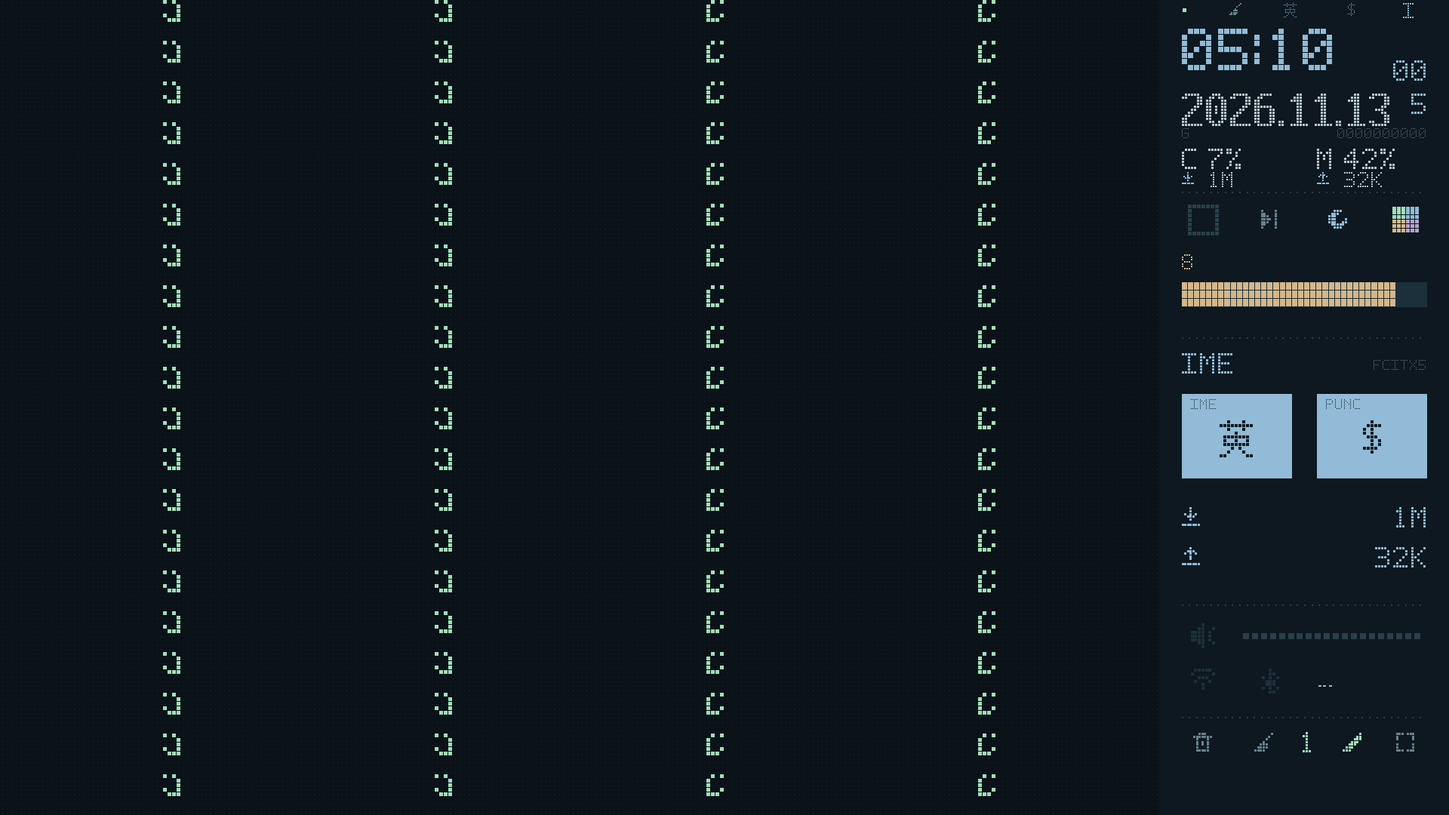
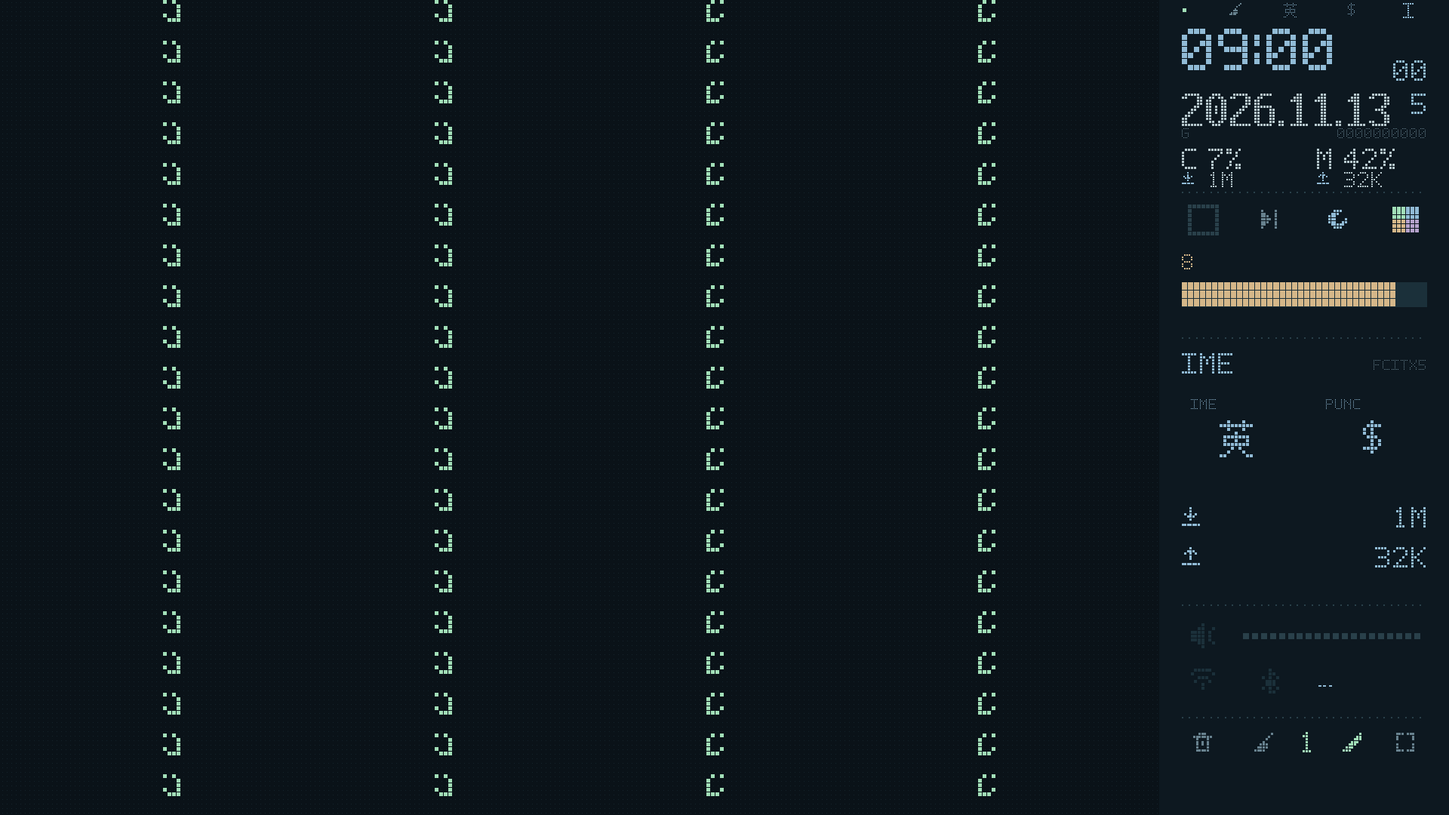
Recognize Rime currency punctuation labels, initialize tray menus, and remove input status tiles

Changed region(s): [[0.8125, 0.4583, 1.0, 0.6111], [0.8438, 0.0306, 0.9062, 0.0917]]

diff --git a/native/plasma-wallpaper/contents/ui/main.qml b/native/plasma-wallpaper/contents/ui/main.qml
@@ -5,7 +5,7 @@ import org.kde.plasma.core as PlasmaCore
 
 WallpaperItem {
     id: root
-    readonly property string frontendVersion: "0.3.4"
+    readonly property string frontendVersion: "0.3.5"
     // Source resolution and the Item's logical display size are separate contracts.
     readonly property real ratio: Screen.devicePixelRatio || 1
     readonly property real renderScale: Math.min(Math.max(ratio, 640 / Math.max(1,width), 360 / Math.max(1,height)),

diff --git a/native/conway_desktop/ime.py b/native/conway_desktop/ime.py
@@ -9,8 +9,8 @@ from PySide6.QtCore import QObject,QTimer
 from .logging_setup import LOGGER
 
 SERVICE='org.fcitx.Fcitx5';CONTROLLER='org.fcitx.Fcitx.Controller1'
-CHINESE={'。，','，。','中文标点','中文標點','中式标点','中式標點'}
-ENGLISH={'．，','，．','.,',',.','英文标点','英文標點','西文标点','西文標點'}
+CHINESE={'。，','，。','¥','￥','中文标点','中文標點','中式标点','中式標點','Chinese punctuation'}
+ENGLISH={'．，','，．','.,',',.','$','＄','英文标点','英文標點','西文标点','西文標點','English punctuation'}
 
 def unwrap(value):
     if isinstance(value,dict):
@@ -34,18 +34,24 @@ def menu_items(layout):
             yield layout[0],layout[1]
         for item in layout:yield from menu_items(item)
 
-def punctuation_action(layout):
+def punctuation_candidates(layout):
     candidates=[]
     for identifier,props in menu_items(layout):
         if props.get('enabled') is False or props.get('visible') is False:continue
         icon=props.get('icon-name','')
         if icon in ('fcitx-punc-active','fcitx-punc-inactive'):
             candidates.append((identifier,icon=='fcitx-punc-active'));continue
-        label=props.get('label','').replace('&','').strip()
+        label=props.get('label','')
+        if not isinstance(label,str):continue
+        label=label.replace('&','').strip()
         parts=[part.strip() for part in label.split('→')]
         if len(parts)==2 and ((parts[0] in CHINESE and parts[1] in ENGLISH) or (parts[0] in ENGLISH and parts[1] in CHINESE)):
             candidates.append((identifier,parts[0] in CHINESE))
+    return candidates
+
+def punctuation_action(layout):
     # Never guess when several actions match, or when a custom schema hides/renames it.
+    candidates=punctuation_candidates(layout)
     return candidates[0] if len(candidates)==1 else None
 
 def args(service,path,interface,method,signature='',*values):
@@ -53,7 +59,7 @@ def args(service,path,interface,method,signature='',*values):
 
 class Fcitx(QObject):
     def __init__(self,system):
-        super().__init__(system);self.system=system;self.polling=False;self.after=None;self.engine=None;self.menu=None;self.action=None
+        super().__init__(system);self.system=system;self.polling=False;self.after=None;self.engine=None;self.menu=None;self.action=None;self.diagnostic={'stage':'not-read'}
         self.timer=QTimer(self);self.timer.setInterval(1000);self.timer.timeout.connect(self.refresh)
         if system.enabled:self.timer.start();QTimer.singleShot(0,self.refresh)
     def call(self,argv,callback,key='ime-read'):
@@ -74,7 +80,8 @@ class Fcitx(QObject):
             callback=self.after;self.after=None
             if callback:callback()
         def fail():
-            self.system.state.update(ime=None,punctuation=None);self.system.errors['ime']='无法连接 Fcitx5；需要运行 Fcitx5 并提供会话 D-Bus 与 busctl'
+            self.action=None;self.menu=None;self.punctuation_report('service-unavailable')
+            self.system.state.update(ime=None,punctuation=None);self.system.errors['ime']=self.system.errors['punctuation']='无法连接 Fcitx5；需要运行 Fcitx5 并提供会话 D-Bus 与 busctl'
             done()
         def engine_result(active):
             def result(ok,engine):
@@ -95,26 +102,51 @@ class Fcitx(QObject):
             if not ok or type(value) is not int or value not in (0,1,2):fail();return
             self.call(args(SERVICE,'/controller',CONTROLLER,'CurrentInputMethod'),engine_result(value))
         self.call(args(SERVICE,'/controller',CONTROLLER,'State'),state_result)
+    def punctuation_report(self,stage,**fields):
+        # Only counts and recognized states: no full menus, schema names or text.
+        report={'stage':stage,**fields}
+        if report!=self.diagnostic:LOGGER.info('Punctuation availability %s',report)
+        self.diagnostic=report
     def read_punctuation(self,done):
         self.action=None;self.system.state['punctuation']=None
-        self.system.errors['punctuation']='未找到可识别的标点开关；需要 Fcitx5 托盘菜单和方案的标点选项'
+        def unavailable(stage,message,**fields):
+            self.system.errors['punctuation']=message;self.punctuation_report(stage,**fields);done()
         if self.menu:
             service,path=self.menu
             def result(ok,layout):
-                if not ok:self.menu=None
+                if not ok:
+                    self.menu=None;unavailable('layout-unavailable','无法读取 Fcitx5 标点菜单；将重新发现托盘服务。');return
+                candidates=punctuation_candidates(layout);items=sum(1 for _ in menu_items(layout))
+                if len(candidates)==1:
+                    self.action=candidates[0];self.system.state['punctuation']=self.action[1]
+                    self.system.errors.pop('punctuation',None)
+                    self.punctuation_report('ready',menuItems=items,candidates=1,chinese=self.action[1]);done()
                 else:
-                    self.action=punctuation_action(layout)
-                    if self.action:
-                        self.system.state['punctuation']=self.action[1];self.system.errors.pop('punctuation',None)
-                done()
-            self.call(args(service,path,'com.canonical.dbusmenu','GetLayout','iias',0,3,0),result);return
+                    stage='ambiguous-actions' if candidates else 'no-recognized-action'
+                    message='检测到多个标点开关，无法安全判断应操作哪一个。' if candidates else '未找到可识别的标点开关。支持 Rime 的 ¥／$、￥／$、。，／．，标签；请先在可输入文字的窗口中选中 Rime 中文模式。'
+                    unavailable(stage,message,menuItems=items,candidates=len(candidates))
+            def shown(ok,_):
+                if not ok:
+                    self.menu=None;unavailable('menu-initialization-failed','无法初始化 Fcitx5 托盘菜单；将重新发现托盘服务。');return
+                self.call(args(service,path,'com.canonical.dbusmenu','GetLayout','iias',0,3,0),result)
+            # AboutToShow binds Fcitx's menu to its most recent input context.
+            # It does not display a popup or inject a keyboard event.
+            self.call(args(service,path,'com.canonical.dbusmenu','AboutToShow','i',0),shown);return
         def watcher(ok,items):
-            candidates=[v for v in all_strings(items) if re.fullmatch(r'(?::[0-9]+\.[0-9]+|[A-Za-z_][A-Za-z0-9_-]*(?:\.[A-Za-z_][A-Za-z0-9_-]*)+)/[A-Za-z0-9_/]+',v)][:64] if ok else []
+            if not ok:
+                unavailable('watcher-unavailable','无法读取系统托盘服务；需要 Fcitx5 托盘菜单和会话 D-Bus。');return
+            candidates=[v for v in all_strings(items) if re.fullmatch(r'(?::[0-9]+\.[0-9]+|[A-Za-z_][A-Za-z0-9_-]*(?:\.[A-Za-z_][A-Za-z0-9_-]*)+)/[A-Za-z0-9_/]+',v)][:64]
             def discover():
-                if not candidates:done();return
+                if not candidates:
+                    unavailable('fcitx-tray-not-found','未发现 Fcitx5 托盘菜单；请确认 Fcitx5 的状态通知器／托盘功能正在运行。');return
                 service,tail=candidates.pop(0).split('/',1);path='/'+tail
+                def menu_path(ok,value):
+                    if not ok or not isinstance(value,str) or not re.fullmatch(r'/(?:[A-Za-z0-9_]+/)*[A-Za-z0-9_]+',value):
+                        unavailable('menu-path-unavailable','Fcitx5 托盘未提供有效的菜单路径。');return
+                    self.menu=(service,value);self.read_punctuation(done)
                 def identify(ok,value):
-                    if ok and value=='Fcitx':self.menu=(service,'/MenuBar');self.read_punctuation(done)
+                    if ok and value=='Fcitx':
+                        self.call(args(service,path,'org.freedesktop.DBus.Properties','Get','ss','org.kde.StatusNotifierItem','Menu'),menu_path)
                     else:discover()
                 self.call(args(service,path,'org.freedesktop.DBus.Properties','Get','ss','org.kde.StatusNotifierItem','Id'),identify)
             discover()
@@ -128,7 +160,7 @@ class Fcitx(QObject):
             self.system.changed.emit()
         QTimer.singleShot(200,lambda:self.refresh(after=verify))
     def control_failure(self,key):
-        self.system.busy.discard(key);self.system.notice.emit('Fcitx5 操作失败，请确认输入法服务、托盘和当前输入方案。');self.system.changed.emit()
+        self.system.busy.discard(key);self.system.notice.emit(self.system.errors.get(key) or 'Fcitx5 操作失败，请确认输入法服务、托盘和当前输入方案。');self.system.changed.emit()
     def toggle_mode(self):
         key='ime'
         if self.system.busy.intersection(('ime','punctuation')) or not self.system.enabled:return
@@ -159,22 +191,17 @@ class Fcitx(QObject):
         if self.system.busy.intersection(('ime','punctuation')) or not self.system.enabled:return
         self.system.busy.add(key);self.system.changed.emit()
         def perform():
-            if not self.menu:self.control_failure(key);return
-            service,path=self.menu
-            def shown(ok,_):
-                if not ok:self.control_failure(key);return
-                def refreshed():
-                    if not self.action:self.control_failure(key);return
-                    identifier,current=self.action
-                    LOGGER.info('Punctuation requested chinese=%s',not current)
-                    def clicked(ok,_):
-                        if not ok:self.control_failure(key);return
-                        def close_menu():
-                            self.call(args(service,path,'com.canonical.dbusmenu','Event','isvu',0,'closed','i',0,0),
-                                      lambda ok,_:self.finish_control(key,not current),'ime-control')
-                        QTimer.singleShot(100,close_menu)
-                    self.call(args(service,path,'com.canonical.dbusmenu','Event','isvu',identifier,'clicked','i',0,0),clicked,'ime-control')
-                self.read_punctuation(refreshed)
-            self.call(args(service,path,'com.canonical.dbusmenu','AboutToShow','i',0),shown,'ime-control')
+            def refreshed():
+                if not self.action or not self.menu:self.control_failure(key);return
+                service,path=self.menu;identifier,current=self.action
+                LOGGER.info('Punctuation requested chinese=%s',not current)
+                def clicked(ok,_):
+                    if not ok:self.control_failure(key);return
+                    def close_menu():
+                        self.call(args(service,path,'com.canonical.dbusmenu','Event','isvu',0,'closed','i',0,0),
+                                  lambda ok,_:self.finish_control(key,not current),'ime-control')
+                    QTimer.singleShot(100,close_menu)
+                self.call(args(service,path,'com.canonical.dbusmenu','Event','isvu',identifier,'clicked','i',0,0),clicked,'ime-control')
+            self.read_punctuation(refreshed)
         self.refresh(after=perform)
     def stop(self):self.timer.stop();self.after=None

diff --git a/native/tests/test_ime.py b/native/tests/test_ime.py
@@ -15,10 +15,10 @@ from conway_desktop.view import View
 APP=QApplication.instance() or QApplication([])
 
 class FakeBus:
-    def __init__(self):self.ascii=False;self.punctuation=True;self.engine='rime';self.calls=[];self.failed=False
+    def __init__(self):self.ascii=False;self.punctuation=True;self.engine='rime';self.calls=[];self.failed=False;self.labels=('。，','．，');self.prepared=False;self.menu_path='/MenuBar';self.fail_method=None;self.has_tray=True
     def run(self,key,argv,callback,**kwargs):
         self.calls.append(argv);method=argv[8];signature=argv[9] if len(argv)>9 else '';values=argv[10:]
-        if self.failed:callback(False,'no session bus');return True
+        if self.failed or method==self.fail_method:callback(False,'unavailable');return True
         value=None;kind=''
         if method=='State':kind='i';value=1 if self.engine.startswith('keyboard-') else 2
         elif method=='CurrentInputMethod':kind='s';value=self.engine
@@ -27,13 +27,18 @@ class FakeBus:
         elif method=='Activate':self.engine='rime'
         elif method=='Deactivate':self.engine='keyboard-us'
         elif method=='Get':
-            if values[-1]=='RegisteredStatusNotifierItems':kind='v';value={'type':'as','data':[':1.55/StatusNotifierItem']}
+            if values[-1]=='RegisteredStatusNotifierItems':kind='v';value={'type':'as','data':[':1.55/StatusNotifierItem'] if self.has_tray else []}
+            elif values[-1]=='Menu':kind='v';value={'type':'o','data':self.menu_path}
             else:kind='v';value={'type':'s','data':'Fcitx'}
         elif method=='GetLayout':
-            label='。， → ．，' if self.punctuation else '．， → 。，'
+            assert self.prepared,'GetLayout requires AboutToShow to initialize the input context'
+            assert argv[6]==self.menu_path,'Use the advertised menu object path'
+            a,b=self.labels if self.punctuation else tuple(reversed(self.labels));label=a+' → '+b
             kind='u(ia{sv}av)';data=[42,[0,{},[{'type':'(ia{sv}av)','data':[77,{'label':{'type':'s','data':label}},[]]}]]]
             callback(True,json.dumps({'type':kind,'data':data}));return True
-        elif method=='AboutToShow':kind='b';value=True
+        elif method=='AboutToShow':
+            assert argv[6]==self.menu_path
+            self.prepared=True;kind='b';value=True
         elif method=='Event' and values[1]=='clicked':self.punctuation=not self.punctuation
         callback(True,json.dumps({'type':kind,'data':[value]}) if kind else '');return True
     def stop(self):pass
@@ -60,6 +65,38 @@ class InputMethods(unittest.TestCase):
         self.assertTrue(any(argv[-3:]==['SetAsciiMode','b','true'] for argv in self.bus.calls))
         event=next(argv for argv in self.bus.calls if argv[8]=='Event')
         self.assertEqual(event[9:],['isvu','77','clicked','i','0','0'])
+    def test_currency_labels_read_toggle_and_confirm_in_both_directions(self):
+        for chinese,english in (('¥','$'),('￥','$'),('￥','＄'),('。，','．，')):
+            self.bus.labels=(chinese,english);self.bus.punctuation=True;self.bus.prepared=False
+            self.system.ime.menu=None;self.system.ime.refresh()
+            self.assertIs(self.system.state['punctuation'],True)
+            with patch('conway_desktop.ime.QTimer.singleShot',side_effect=lambda _,callback:callback()):
+                self.system.ime.toggle_punctuation();self.assertIs(self.system.state['punctuation'],False)
+                self.system.ime.toggle_punctuation();self.assertIs(self.system.state['punctuation'],True)
+            self.assertEqual(self.system.ime.diagnostic['stage'],'ready');self.assertFalse(self.messages)
+    def test_reported_menu_path_and_initialization_are_required(self):
+        self.bus.menu_path='/Custom/FcitxMenu';self.system.ime.refresh()
+        self.assertEqual(self.system.ime.menu,(':1.55','/Custom/FcitxMenu'))
+        methods=[c[8] for c in self.bus.calls];self.assertLess(methods.index('AboutToShow'),methods.index('GetLayout'))
+        self.assertIs(self.system.state['punctuation'],True)
+    def test_unavailable_punctuation_keeps_language_and_explains_failure(self):
+        self.bus.has_tray=False;self.system.ime.refresh()
+        self.assertIs(self.system.state['ime'],True);self.assertIsNone(self.system.state['punctuation'])
+        self.assertEqual(self.system.ime.diagnostic['stage'],'fcitx-tray-not-found')
+        self.bus.has_tray=True;self.bus.fail_method='GetLayout';self.system.ime.refresh()
+        self.assertEqual(self.system.ime.diagnostic['stage'],'layout-unavailable');self.assertIsNone(self.system.ime.menu)
+        self.bus.fail_method=None;self.system.ime.refresh()
+        self.assertIs(self.system.state['punctuation'],True);self.assertNotIn('punctuation',self.system.errors)
+    def test_labels_and_ambiguity_do_not_confuse_other_rime_switches(self):
+        for label,value in (('¥ → $',True),('$ → ¥',False),('￥ → ＄',True),('＄ → ￥',False)):
+            self.assertEqual(punctuation_action([0,{},[[5,{'label':label},[]]]]),(5,value))
+        for label in ('全角 → 半角','简 → 繁','￥','中文模式 → 英文模式',None):
+            self.assertIsNone(punctuation_action([0,{},[[5,{'label':label},[]]]]))
+        self.assertIsNone(punctuation_action([0,{},[[5,{'label':'¥ → $'},[]],[6,{'label':'。， → ．，'},[]]]]))
+        self.assertIsNone(punctuation_action([0,{},[[5,{'label':'¥ → $','enabled':False},[]]]]))
+        self.bus.labels=('CustomPrivateMode','UnrecognizedPrivateState');self.system.ime.refresh()
+        self.assertEqual(self.system.ime.diagnostic['stage'],'no-recognized-action')
+        self.assertNotIn('CustomPrivateMode',str(self.system.ime.diagnostic))
     def test_keyboard_to_rime_activates_then_exits_rime_ascii(self):
         self.bus.engine='keyboard-us';self.bus.ascii=True
         with patch('conway_desktop.ime.QTimer.singleShot',side_effect=lambda _,callback:callback()):self.system.ime.toggle_mode()
@@ -90,6 +127,27 @@ class InputMethods(unittest.TestCase):
                         self.assertIs(self.system.state['ime'],not previous)
                         previous=self.system.state['punctuation'];regions['status-punctuation'][1]()
                         self.assertIs(self.system.state['punctuation'],not previous)
+        finally:view.timer.stop();view.deleteLater();APP.processEvents()
+    def test_enlarged_input_states_have_no_tile_backgrounds(self):
+        import numpy as np
+        from PySide6.QtGui import QColor
+        from conway_desktop.view import THEMES
+        view=View(Model(),None,self.system);view.deck='information'
+        try:
+            for theme in ('night','day'):
+                view.m.palette=theme;palette=THEMES[theme]
+                for value in (True,False,None):
+                    self.system.state.update(ime=value,punctuation=value)
+                    for w,h in ((1920,1080),(2560,1440)):
+                        image=view.render_image(w,h)
+                        pixels=np.frombuffer(image.bits(),np.uint32).reshape(image.height(),image.bytesPerLine()//4)
+                        for name in ('ime','punctuation'):
+                            box=next(r for r,_,n in view.regions if n==name)
+                            self.assertEqual(image.pixelColor(box.x()+2,box.y()+2),QColor(palette['panel']))
+                            body=pixels[box.y():box.y()+box.height(),box.x():box.x()+box.width()]
+                            ink=QColor(palette['muted'] if value is None else palette['life'] if value else palette['clock']).rgba()
+                            self.assertGreater(np.count_nonzero(body==ink),20)
+                            self.assertGreater(np.count_nonzero(body==QColor(palette['panel']).rgba()),body.size*.75)
         finally:view.timer.stop();view.deleteLater();APP.processEvents()
     def test_information_page_layout_and_no_canvas_close(self):
         view=View(Model(),None,self.system);view.deck='information'

diff --git a/native/tests/test_wallpaper.py b/native/tests/test_wallpaper.py
@@ -282,7 +282,11 @@ class WallpaperBridge(unittest.TestCase):
         status,data=self.request('/status');self.assertEqual(status,200);self.assertTrue(json.loads(data)['reloadRequired'])
         path='/status?frontend='+VERSION+'&logicalW=1970&logicalH=1107&screenDpr=2&sourceW=2560&sourceH=1440&imageW=1970&imageH=1107'
         status,data=self.request(path);self.assertEqual(status,200);self.assertFalse(json.loads(data)['reloadRequired'])
+        self.system.state.update(ime=True,punctuation=False)
+        self.system.ime.punctuation_report('ready',menuItems=8,candidates=1,chinese=False)
         status,data=self.request('/display-info');info=json.loads(data)
+        self.assertEqual(info['inputMethod'],{'chinese':True,'chinesePunctuation':False,
+                         'punctuationDiagnostic':{'stage':'ready','menuItems':8,'candidates':1,'chinese':False}})
         self.assertEqual(info['backendVersion'],VERSION);self.assertEqual(info['clients'][-1]['logicalW'],1970)
         self.assertEqual(info['clients'][-1]['sourceH'],1440);self.assertNotIn(self.server.token,data.decode())
         self.assertEqual(self.request('/status?frontend='+VERSION+'&logicalW=nan')[0],400)

diff --git a/native/conway_desktop/view.py b/native/conway_desktop/view.py
@@ -305,12 +305,11 @@ class View(QWidget):
                 value=state[key];busy=bool(self.system.busy.intersection(('ime','punctuation')))
                 enabled=value is not None
                 region(key,x,437,122,94,lambda action=action:action() if not self.system.busy.intersection(('ime','punctuation')) else None,enabled)
-                p.fillRect(rect(x,437,122,94),t['life'] if value else t['clock'] if value is False else t['off'])
-                color=t['panel'] if value is not None else t['muted']
+                color=t['muted'] if value is None else t['life'] if value else t['clock']
                 text(x+10,443,label,1.8,color)
                 symbols=('中' if value else '英') if key=='ime' else ('￥' if value else '$')
                 text(x+(42 if key=='ime' else 47),466,symbols if value is not None else '?',4,color)
-                if busy:p.fillRect(rect(x,437,122,5),t['speed'])
+                if busy:dot(x+108,443,4,t['speed'])
             for y,name,key in ((563,'down','download'),(607,'up','upload')):
                 icon(24,y,name,t['clock'],3)
                 text(296,y,rate_label(state.get(key)),3,t['clock'],True)

diff --git a/native/conway_desktop/wallpaper.py b/native/conway_desktop/wallpaper.py
@@ -178,6 +178,8 @@ class WallpaperServer(QObject):
         from PySide6.QtGui import QGuiApplication
         return {'backendVersion':VERSION,'clients':list(self.display_clients.values()),
                 'inputCounts':self.input_counts,'lastInput':self.last_input,
+                'inputMethod':{'chinese':self.view.system.state['ime'],'chinesePunctuation':self.view.system.state['punctuation'],
+                               'punctuationDiagnostic':self.view.system.ime.diagnostic},
                 'activityPreview':{'image':self.preview.url,'error':self.preview.error} if self.preview else None,
                 'nativeWindowLogicalSize':[self.view.width(),self.view.height()],
                 'nativeWindowDpr':self.view.devicePixelRatioF(),

diff --git a/native/README.md b/native/README.md
@@ -2,7 +2,7 @@
 
 先阅读 [方案与能力边界](docs/DESIGN.md)，再阅读 [操作手册](docs/MANUAL.md)。本目录是独立原生 Qt 应用，不加载 HTML 或 WebEngine；网页版本仍保留。
 
-当前 0.3.4 面向 1920×1080 和 2560×1440 物理像素，提供普通窗口、全屏，以及 **Plasma 6 原生壁纸插件实验模式**。真实 Kubuntu 桌面叠放、图标输入和缩放仍需实机验证。
+当前 0.3.5 面向 1920×1080 和 2560×1440 物理像素，提供普通窗口、全屏，以及 **Plasma 6 原生壁纸插件实验模式**。真实 Kubuntu 桌面叠放、图标输入和缩放仍需实机验证。
 
 ## 推荐：一键下载／更新
 
@@ -67,9 +67,9 @@ bash /tmp/conway-update.sh
 
 CPU／内存显示如 `7%`、`42%`，不补零。下载／上传按物理联网网卡的字节计数差计算，每两秒采样；以 1024 进制显示整数 `B`、`K`、`M`（均为每秒字节数，舍去小数）。不统计 VPN 虚拟接口，避免重复计数；多个物理接口相加。初次采样、网卡切换、计数回退及休眠恢复显示 `---`，随后恢复。
 
-右侧最顶行常驻 **中／英** 与 **￥／$** 状态，分别表示中文／英文输入及中文／英文标点；均可点击切换，未知显示 `?`。右上 P／I 切换图案与信息页，信息页保留对应的大按钮。货币符号仅是标点状态的图形标识，不代表切换货币或全角／半角。
+右侧最顶行常驻 **中／英** 与 **￥／$** 状态，分别表示中文／英文输入及中文／英文标点；均可点击切换，未知显示 `?`。右上 P／I 切换图案与信息页，信息页保留对应的大号无底色按钮，用像素字形及颜色显示。货币符号仅是标点状态的图形标识，不代表切换货币或全角／半角。
 
-输入法针对 Fcitx5，需要 `busctl` 与会话 D-Bus。支持 Rime 内部 ASCII 模式、Fcitx 拼音／双拼及英文键盘切换；不以“引擎仍是 Rime”就断言正在输入中文。标点读取 Fcitx 托盘的真实标点动作，支持标准 punctuation 图标及可识别的 Rime `。， ↔ ．，` 等标签。方案隐藏该选项、自定义标签无法判断或托盘未运行时，显示 `?` 并禁用，**不会把全角／半角冒充中／英文标点**。不模拟快捷键，不改 Rime 配置，不读取预编辑文本。操作后读回确认。
+输入法针对 Fcitx5，需要 `busctl` 与会话 D-Bus。支持 Rime 内部 ASCII 模式、Fcitx 拼音／双拼及英文键盘切换；不以“引擎仍是 Rime”就断言正在输入中文。标点读取 Fcitx 托盘的真实标点动作，支持标准 punctuation 图标及 Rime `。， → ．，`、`¥ → $`、`￥ → $` 与它们的反向标签。方案隐藏该选项、自定义标签无法判断或托盘未运行时，显示 `?` 并禁用，**不会把全角／半角冒充中／英文标点**。不模拟快捷键，不改 Rime 配置，不读取预编辑文本。操作后读回确认。
 
 状态属于 Fcitx 最近的输入上下文，是否按应用记忆遵循你的 Fcitx／Rime 设置；不是保证全系统所有应用同步的开关。Wayland 焦点行为仍需实机验证。自定义方案可在 Rime 的 switches 中公开 ascii_punct 并使用常规标点状态标签，部署后重新检查；不要为此覆盖现有整份配置。
 
@@ -173,3 +173,12 @@ Plasma 6.6.6 活动切换器读取壁纸配置的 `General/Image`，不会自动
 Wi-Fi 名称的像素字号提高，音量条移至与喇叭图标相同的水平中心线。最顶行增加可点击的常驻“中／英”和“￥／$”，两个页面均可查看和切换；信息页的大按钮也统一使用货币符号显示标点状态。已有 Fcitx5／Rime 识别与未知状态处理不变。
 
 本轮 79 项测试通过；两个目标分辨率已重新渲染预览。更新与重载方式沿用 0.3.2 一节。
+
+
+## 0.3.5：标点识别修复与无底色输入法页面
+
+信息页的大号“中／英”和“￥／$”移除矩形底色，改用像素字形与颜色表达状态。修复只接受少数标点标签的问题：现支持 Rime 常见的 `states: [¥, $]`、`[￥, $]`，以及全角美元符号。按菜单箭头左侧的当前值判断状态，不把人民币／美元字形直接当作全角／半角，也不猜测未知开关。
+
+读取菜单前先调用 AboutToShow 绑定最近的输入上下文，并使用托盘实际公布的 Menu 路径；失效的菜单引用会重新发现。切换依旧通过真实菜单动作执行并读回确认。无需修改用户 Rime 配置，也不模拟快捷键。细节和上游依据见 [输入法状态与标点](docs/INPUT-METHOD.md)。
+
+84 项测试通过，覆盖货币符号的双向读取与切换、菜单初始化与路径、失效重连，以及两种分辨率下无背景的大号状态。若仍出现问号，后台运行时执行 `conway-desktop --wallpaper-info`，查看 `inputMethod.punctuationDiagnostic`；仅报告识别阶段、数量和状态，不输出整份托盘菜单或输入内容。

diff --git a/native/docs/INPUT-METHOD.md b/native/docs/INPUT-METHOD.md
@@ -1,0 +1,26 @@
+# 输入法与标点状态
+
+## 标点为何可能显示问号
+
+Rime 的 ascii_punct 是标点模式开关：false 是中文标点，true 是 ASCII 标点。Fcitx5-Rime 从方案 switches 的 states 读取两段显示文字，并将当前值与目标值写成“当前 → 目标”的菜单标签。因此标签既可能是“。， → ．，”，也可能是“¥ → $”。只接受前一种会漏掉使用货币符号的常见配置；这属于本应用的识别兼容问题，不表示输入方案没有标点开关。
+
+0.3.5 接受明确的货币和标点标签对，按照箭头左侧判断当前状态；英文标点时显示 $，中文标点时显示 ￥。全角／半角、简繁、emoji 等选项不属于本功能。遇到未知或多个候选时禁用而不猜测。
+
+## 菜单读取与切换
+
+Fcitx5 的菜单操作依赖最近的输入上下文。读取前 AboutToShow(0) 会更新该上下文引用，随后 GetLayout 才能得到相应动作。这个 D-Bus 方法不会弹出菜单或发送键盘事件。本应用从 StatusNotifierItem 的 Menu 属性获取实际对象路径，避免硬编码路径；失效后重新发现。
+
+切换前再次读取菜单，使用最新动作 ID 发出 Event(clicked)，关闭该菜单交互后刷新并确认状态。发出命令不等于成功；未进入目标值时保留真实读数并提示。没有有效输入上下文、方案未公开该选项或托盘组件不可用时，无法保证从桌面直接切换。
+
+原始依据：
+
+- [Fcitx5-Rime ToggleAction](https://github.com/fcitx/fcitx5-rime/blob/master/src/rimeaction.cpp)：states 的当前／目标标签与选项切换。
+- [Fcitx5-Rime RimeEngine](https://github.com/fcitx/fcitx5-rime/blob/master/src/rimeengine.cpp)：按方案 switches 创建动作。
+- [Fcitx5 DBusMenu](https://github.com/fcitx/fcitx5/blob/master/src/modules/notificationitem/dbusmenu.cpp)：AboutToShow、输入上下文、菜单标签和事件路由。
+- [Fcitx5 StatusNotifierItem](https://github.com/fcitx/fcitx5/blob/master/src/modules/notificationitem/notificationitem.cpp)：Id 与 Menu 属性。
+
+## 诊断与显示
+
+壁纸运行时，conway-desktop --wallpaper-info 的 inputMethod 字段返回中文模式、中文标点模式及 punctuationDiagnostic。stage 区分服务、托盘、路径、初始化、读取、候选识别等失败；菜单条目及候选数量帮助区分空菜单和不识别的标签。它不会返回原始菜单、方案名称或输入文本；日志只在诊断变化时记录。
+
+信息页的放大状态与顶行常驻状态均使用无底色像素字形。中／英与￥／$ 表达模式差异，未知状态为问号；两个位置调用同一控制器。

diff --git a/native/docs/DESIGN.md b/native/docs/DESIGN.md
@@ -148,3 +148,10 @@ Plasma 6.6.6 的 Folder View 在壁纸上方接收空白桌面鼠标，Wallpaper
 三枚系统图标保留相同无底块网格，关闭颜色由警示色改为当前配色 off；开启仍使用 life。连接数只绘制实际存在的 8×8 方块，0／未知不绘制，未知与超额分别在图标旁标 ?／+，不为电源目标伪造连接数。音量条与图标的几何中心在两个输出尺寸下相差不超过 1 物理像素。
 
 Wi-Fi Unicode 点阵字号从 8／7／6 提高至 10／9／8，保留换行、长名称的字号适应和完整名称提示。输入法紧凑按钮位于顶行空余位置，与绘制模式及 P／I 切换互不重叠；调用现有控制器并共享忙碌和未知状态保护。中／英及 ￥／$ 使用明确点阵字形，不依赖系统中文字体；标点识别语义仍由 Fcitx 的真实动作决定。
+
+
+## 14. 0.3.5 Rime 货币标签与菜单生命周期
+
+标点候选识别增加 ¥／￥ 和 $／＄，仍要求箭头两侧分别属于明确的中、英文标点标签；隐藏、禁用、多个候选和全角／半角动作不会触发。刷新通过 StatusNotifierItem 的 Menu 属性取得真实菜单路径，先 AboutToShow(0) 再 GetLayout，确保最近输入上下文已绑定。初始化或菜单获取失败清除缓存，下轮重新发现。切换前重新读取动作 ID，发 Event(clicked) 后读回实际状态。
+
+Fcitx 控制器新增有界诊断字典，只包含阶段、菜单条目数、候选数及已确认状态；仅变化时写日志，并在认证的 display-info 内提供。原始菜单和配置不落日志。信息页大号按钮移除 fillRect，字形使用 life／clock／muted 颜色；忙碌提示缩为一个小点，命中区保持不变。
